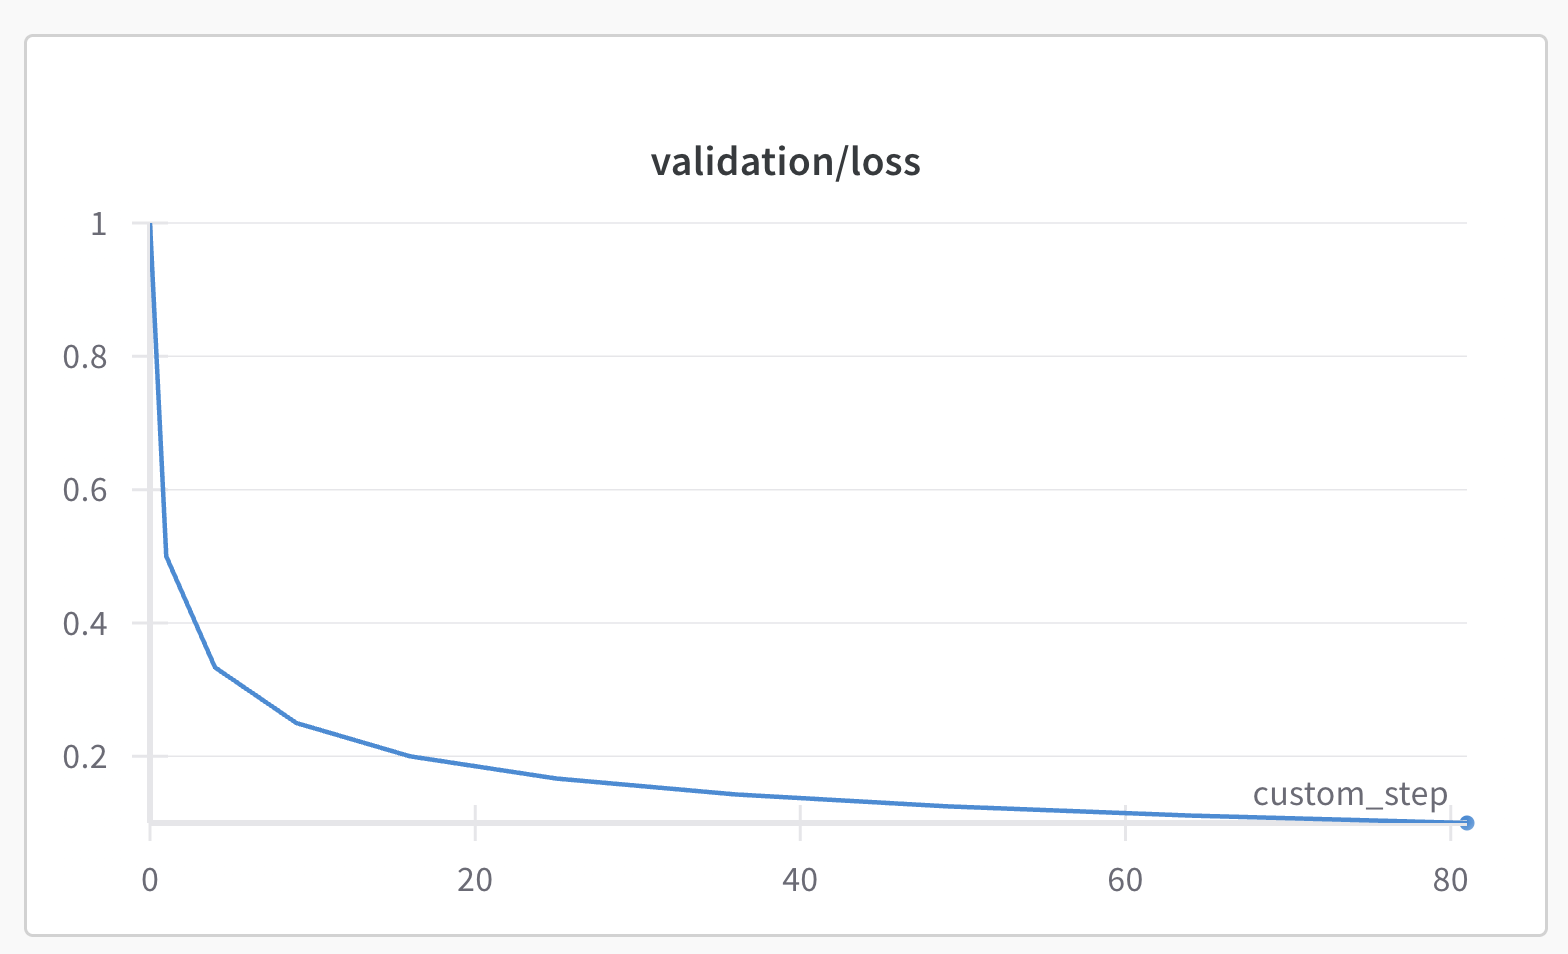
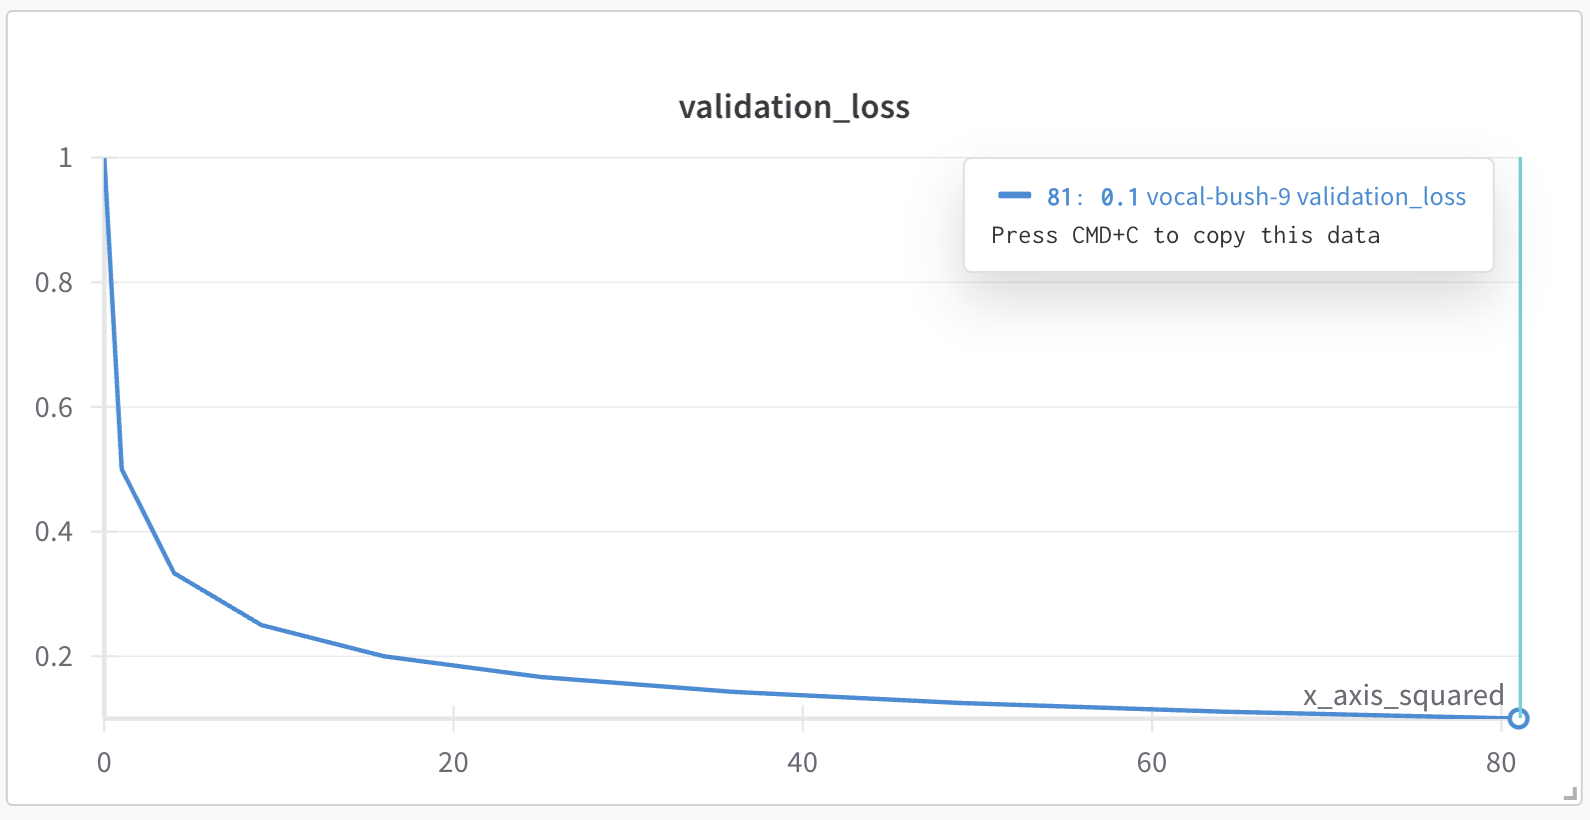
Updated text and images

diff --git a/content/guides/models/track/log/customize-logging-axes.md b/content/guides/models/track/log/customize-logging-axes.md
@@ -6,54 +6,72 @@ menu:
 title: Customize log axes
 ---
 
-Set a custom x-axis when you log metrics to W&B. By default, W&B logs metrics as a function of *steps*. A step corresponds to the number of times you call `wandb.log()`. 
+Set a custom x-axis when you log metrics to W&B. By default, W&B logs metrics as *steps*. Each step corresponds to a `wandb.log()` API call. 
 
-For example, suppose you log a metric in a for loop that iterates 10 times. W&B logs the metric against the step number, which is incremented by 1 each time you log a metric.
-
-The code might look similar to the following:
+For example, suppose you have a `for` loop that loops 10 times (see the following code block). In each `for` loop, you log a metric called `validation_loss` with `wandb.log()`. W&B increments the step number by 1 each time you log that metric. 
 
 ```python
 import wandb
 
 with wandb.init() as run:
+  # range function creates a sequence of numbers from 0 to 9
   for i in range(10):
     log_dict = {
-        "validation/loss": 1/(i+1)   
+        "validation_loss": 1/(i+1)   
     }
     run.log(log_dict)
 ```
 
-The previous code snippet generates a line plot panel in the W&B UI that shows the `validation/loss` metric as a function of the step number. 
+If you navigate to your project's workspace, you can see that the `validation_loss` metric is plotted against the step x-axis. Each step in the for loop monotonically increases by 1, so the x-axis shows the step numbers 0, 1, 2, ..., 9. (The Python `range()` function creates a sequence of numbers from 0 to 9.)
 
 {{< img src="/images/experiments/standard_axes.png" alt="Line plot panel that uses default x-axis. Each step in monotonically increases by 1." >}}
 
-However, there are cases where you might want to log metrics against a different x-axis. In this case, use the [`define_metric`]({{< relref "ref/python/run/#define_metric" >}}) method to define a custom x-axis. 
+In certain situations, it makes more sense to log metrics against a different x-axis. For example, you may want a logarithmic x-axis. Use the [`define_metric()`]({{< relref "ref/python/run/#define_metric" >}}) method to define a custom x-axis based on a metric you log.
 
+Specify the metric that you want to appear as the y-axis with the `name` parameter. The `step_metric` parameter specifies the metric you want to use as the x-axis. When you log a metric, specify a value for both the x-axis and the y-axis as key-value pairs in a dictionary. 
 
-Specify the name of the metric you want to create a custom x-axis for with the `name` parameter. Then, set the `step_metric` parameter to the name of the metric you want to use as the x-axis.
+Copy and paste the following code snippet to set a custom x-axis metric. Replace the values within `<>` with your own values:
 
-The following code snippet demonstrates how to set a custom x-axis metric called `"custom_step"` and log the `"validation_loss"` metric against it. With each iteration in the for loop, the `"custom_step"` is set to `i**2`:
+```python
+import wandb
+
+custom_step = "<custom_step>"  # custom x-axis
+metric_name = "<metric>"  # metric to log against custom x-axis
+
+with wandb.init() as run:
+    # define step metric (x-axis) and the metric to log against it (y-axis)
+    run.define_metric(name = metric_name, step_metric = custom_step)
+
+    for i in range(10):
+        log_dict = {
+            custom_step : int,  # Value of x-axis
+            metric_name : int,  # Value of y-axis
+        }
+        run.log(log_dict)
+```
+
+As an example, the following code snippet demonstrates how to create a custom x-axis using a metric called `x_axis_squared` and a y-axis called `validation_loss`. The value of the custom x-axis is the square of the for loop index `i` (`i**2`). The `validation_loss` metric is logged as `1 / (i + 1)`.
 
 ```python
 import wandb
 
 with wandb.init() as run:
     # define which metrics will be plotted against it
-    run.define_metric(name = "validation_loss", step_metric = "custom_step")
+    run.define_metric(name = "validation_loss", step_metric = "x_axis_squared")
 
     for i in range(10):
         log_dict = {
-            "custom_step": i**2,
+            "x_axis_squared": i**2,
             "validation_loss": 1 / (i + 1),
         }
         run.log(log_dict)
 ```
 
-Within the W&B UI, you can see that the `validation_loss` is plotted against `custom_step`. Note how the x-axis is set to the square of the for loop index `i`.
+The following image shows the resulting plot in the W&B App UI. The `validation_loss` metric is plotted against the custom x-axis `x_axis_squared`, which is the square of the for loop index `i`. Note that the x-axis values are `0, 1, 4, 9, 16, 25, 36, 49, 64, 81`, which correspond to the squares of `0, 1, 2, ..., 9` respectively.
 
 {{< img src="/images/experiments/custom_x_axes.png" alt="Line plot panel that uses a custom x axis. Values are logged to W&B as the square of the loop number." >}}
 
-You can set a custom x-axis for multiple metrics using `globs` with string prefixes. As an example, the following code snippet plots logged metrics with the prefix `"train/*"` to the x-axis `"train/step"`:
+You can set a custom x-axis for multiple metrics using `globs` with string prefixes. As an example, the following code snippet plots logged metrics with the prefix `train/*` to the x-axis `train/step`:
 
 ```python
 import wandb
